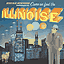
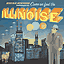
feat(site): fill the cover wall with 30 hand-picked albums
Replace stale local cover paths with public Cover Art Archive / iTunes URLs.

diff --git a/docs/log/2026-11-24-cover-wall-picks.md b/docs/log/2026-11-24-cover-wall-picks.md
@@ -1,0 +1,26 @@
+# 2026-11-24 · 介绍站封面墙改为用户手选名单
+
+- **作者**：Claude
+- **范围**：`site/cover-wall.json`、`site/public/covers/*.png`、`site/src/covers.json`
+
+## 改了什么
+封面墙改为用户手选的 30 张，按用户给的顺序上墙（首屏三列轮流分配，「九种方式」各布局按清单顺序取用）。新增 19 张：In the Court of the Crimson King、Meddle、The Glow Pt. 2、F♯ A♯ ∞、Frengers、夏草が邪魔をする、What's Going On...?、American Football（1999）、Carrie & Lowell、Wish You Were Here、Ants From Up There、One Last Kiss、NO TITLE AS OF 13 FEBRUARY 2024 28,340 DEAD、'Allelujah! Don't Bend! Ascend!、Life Continues、It's a Poppin' Time 等。名单外原有 11 张设为 `show:false`，保留在清单里，对应像素图随生成脚本删除。
+
+## 出现的问题
+- 原清单有 5 张封面指向 `../../me.api/media/music/`。仓库目录迁移后该相对路径已失效，重新运行 `pixel-covers.py` 会报取不到原图。
+- F♯ A♯ ∞、Slow Riot、Carrie & Lowell（原版）、It's a Poppin' Time 在 iTunes 搜不到；MusicBrainz 搜索接口偶尔返回 503。
+
+## 怎么解决的
+- 5 张失效路径（Dark Side of the Moon、Illinois、Lift Yr. Skinny Fists、Racing Mount Pleasant、Slow Riot）全部改用 Cover Art Archive / iTunes 的公开封面地址，不再依赖另一个仓库的本地路径。
+- iTunes 搜不到的经 MusicBrainz release-group 查 Cover Art Archive 正面封面；503 时等待后重试。
+- 清单保持「一张专辑一行」的原格式，避免无关 diff。
+- 验证：介绍站构建与 CSP 检查通过；本地预览桌面与 375px 手机宽度下首屏封面墙、「九种方式」封面墙正常，30 张像素图全部 200，无横向滚动。
+
+## 可能带来的新问题
+- American Football 原图非正方形，居中裁切后右侧文字被截断（只剩 "americ"）。
+- Racing Mount Pleasant、Slow Riot、'Allelujah! 等封面偏浅、对比低，在像素墙里辨识度较弱。
+- 同一艺人（GY!BE 5 张、陳奕迅 3 张）较多，滚动时可能出现相邻相似封面。
+- 封面地址依赖外部 CDN，首次生成需要联网；生成后只提交像素图，站点运行不依赖外网。
+
+## 关联
+D-044 · 2026-11-24-readme-tidy.md
